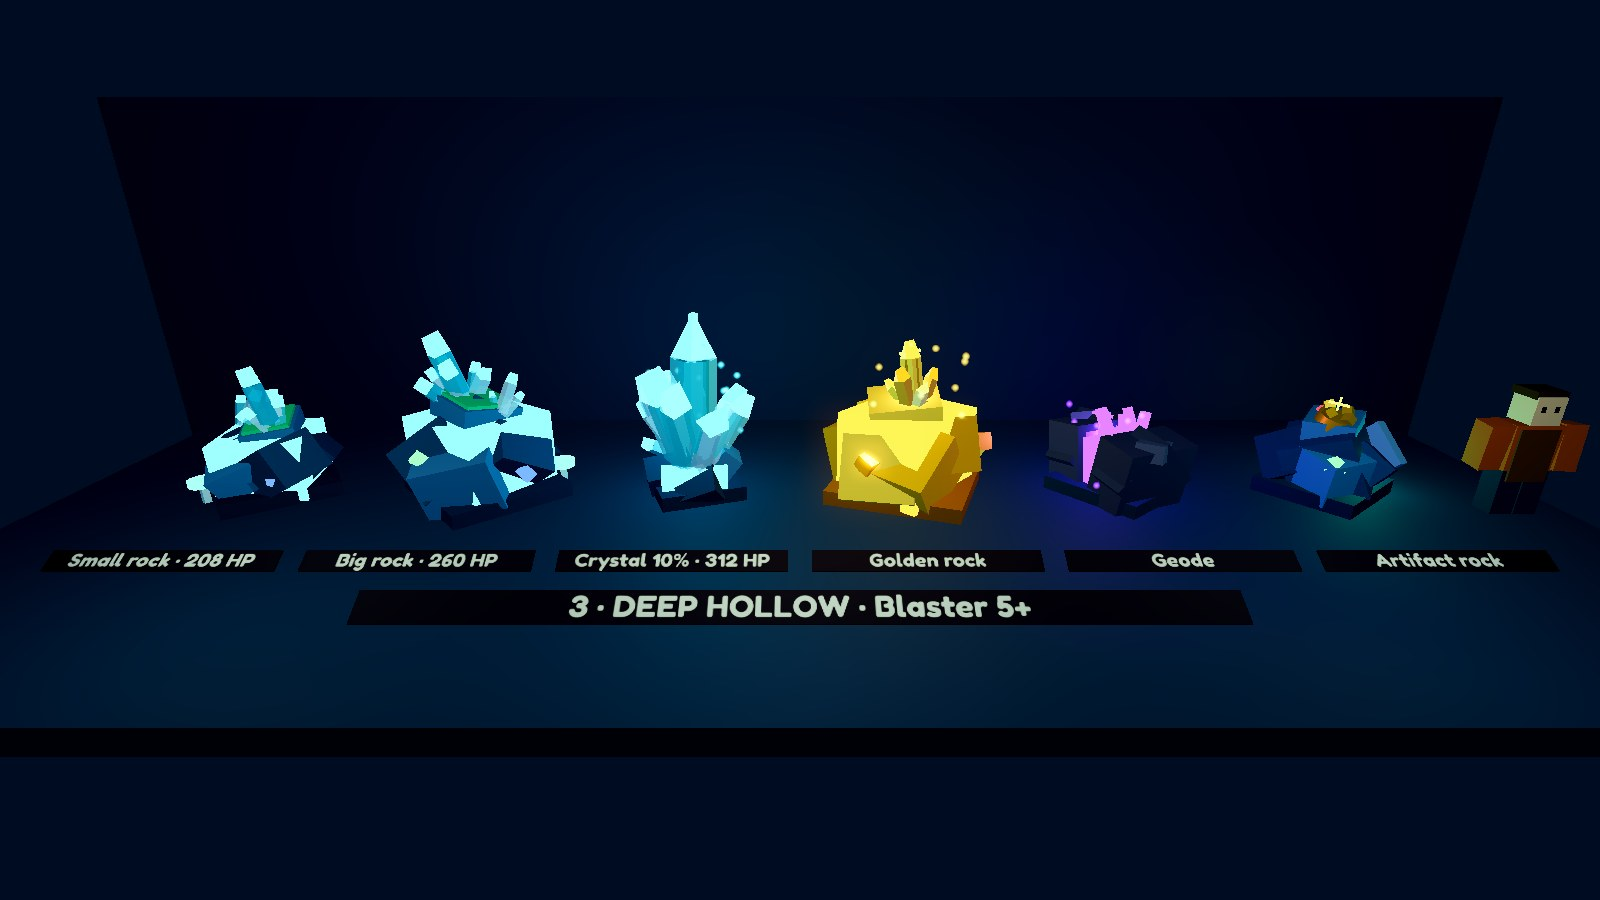
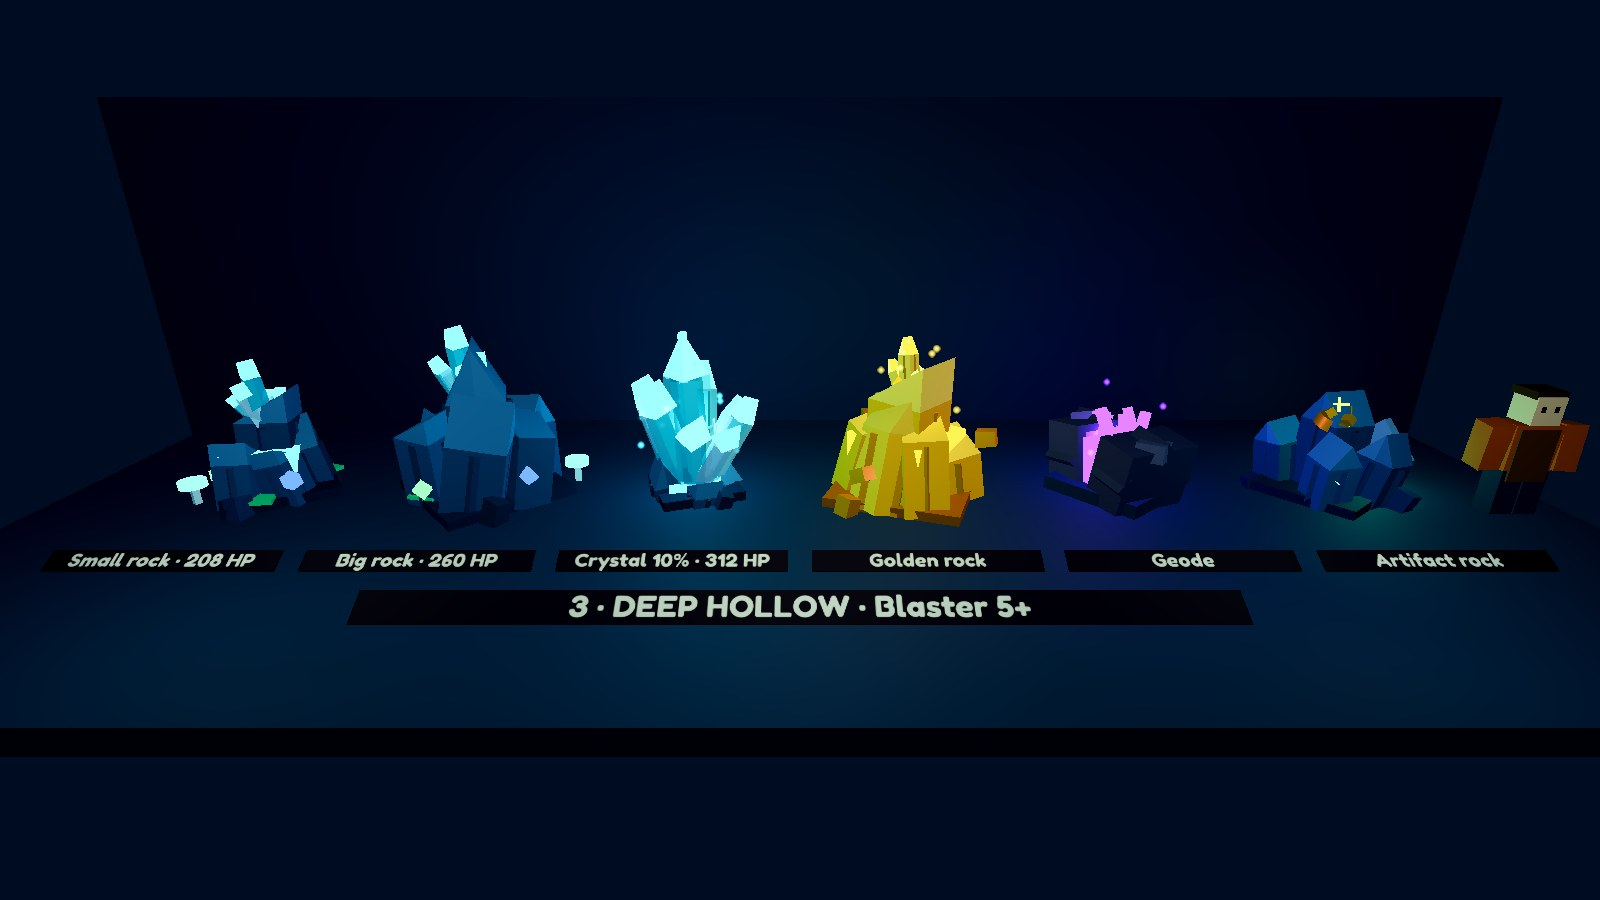
Mine rocks v3: stone shard clusters after The Forge's basalt rocks
Owner asked for more shard shapes: every rock is now a tall central
shard with a ring of shorter shards leaning outward, extra facets and
slanted or ridged tops (Sunken Palace: upright pillars with gold trims),
the floor's glow showing through the gaps and crystals crowning the top.
Ring shards are groups, so a crack stage breaks a whole shard off.

Changed region(s): [[0.0938, 0.3422, 0.4688, 0.5911], [0.5, 0.3733, 0.625, 0.5911], [0.7812, 0.4356, 0.9062, 0.5911]]

diff --git a/docs/plans/MINE_FLOORS_PLAN.md b/docs/plans/MINE_FLOORS_PLAN.md
@@ -7,14 +7,14 @@ Goal: the deeper the floor, the harder the rocks, the better the ores, and the c
 | File | What |
 |---|---|
 | src/shared/Config/MineFloors.luau | 5 floors: blaster gate 1/3/5/7/9, 6 home ores each (all 30 ores), better `CrystalOres`, palettes, lighting preset, elevator flag; rock kinds, ore counts (3/4/3), `Seconds` per kind (4/5/6 s with the floor's weakest blaster), spawn chances (Big 30 %, Crystal 10 %, Golden 2 %, Geode 1.5 %, Artifact 1 %), Giant Crystal (every 600 s), elevator price; `rockHealth(floor, kind)` |
-| src/shared/Builders/RockBuilder.luau | v2 after the owner's ore-shelf reference: tumbled rock chunks with a glowing core in the gaps (lava, ice, gold, heart glow) and dense clusters of slim two-tone faceted crystals (glowing tips, twinkles, pointed hero crystals made of exact triangles). `build(floor, kind, oreIds, base, seed)` for Small, Big, Crystal, Golden, Geode, Artifact, Giant; floor looks (quarry matte copper/quartz → ember lava seams + fire tips → lagoon moss, mushroom, glassy crystals → palace carved stone, gold trim, column → core floating rock, debris, pure glow); `applyStage(model, stage, seed)`: cracks glowing in the stage's ore color on the outer chunks, one chunk + one crystal break off. Budgets 52–80 parts (Giant 160) |
+| src/shared/Builders/RockBuilder.luau | v3 (owner: "more shard shapes", The Forge basalt rocks as reference): a tall central stone shard and a ring of shards leaning outward, each with extra facets and a slanted or ridged top (palace: upright pillars with gold trims), a glowing core in the gaps (lava, ice, gold, heart glow) and dense clusters of slim two-tone faceted crystals (glowing tips, twinkles, pointed hero crystals made of exact triangles). `build(floor, kind, oreIds, base, seed)` for Small, Big, Crystal, Golden, Geode, Artifact, Giant; floor looks (quarry matte copper/quartz → ember lava seams + fire tips → lagoon moss, mushroom, glassy crystals → palace carved stone, gold trim, column → core floating rock, debris, pure glow); `applyStage(model, stage, seed)`: cracks glowing in the stage's ore color on the outer chunks, one chunk + one crystal break off. Budgets 66–92 parts (Giant 170) |
 | src/shared/Config/LightingConfig.luau | presets `Lagoon`, `Palace`, `Core` |
 | tests/MineFloors.spec.luau | floors, ore coverage, HP ≈ seconds, budgets, crystals grow with depth, crack stages |
 | tools/lune/lib/mine_concepts.luau, tools/preview/mine_shots.json | scene `mine_rocks`: rock rows per floor, Giant Crystals, breaking storyboard; scene `mine_showcase`: the stepped neon ore shelf like the owner's reference |
 
 Render: `lune run tools/lune/export_scene.luau mine_rocks` (or `mine_showcase`) then
 `SHOTS_EXTRA=tools/preview/mine_shots.json node tools/preview/render.mjs mine_rocks` (or `mine_showcase`).
-Performance note: rocks are now 40–60 parts; when wiring them in, consider building the crystal clusters on the
+Performance note: rocks are now 55–75 parts; when wiring them in, consider building the crystal clusters on the
 client only (decoration) and keeping the server rock to the chunks.
 Pictures: docs/screenshots/mine_concepts/.
 
